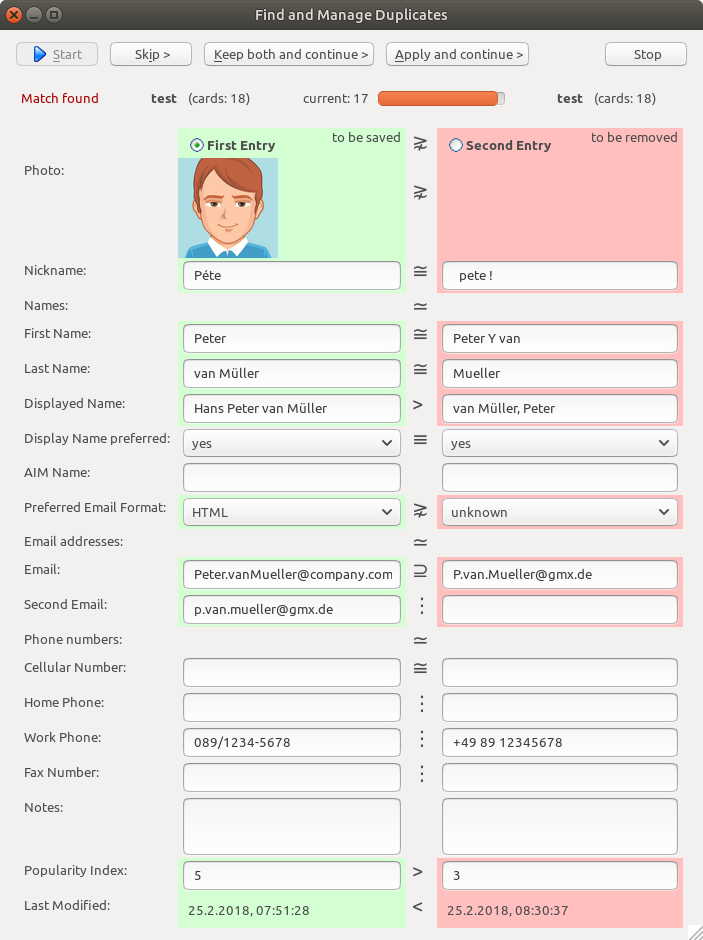
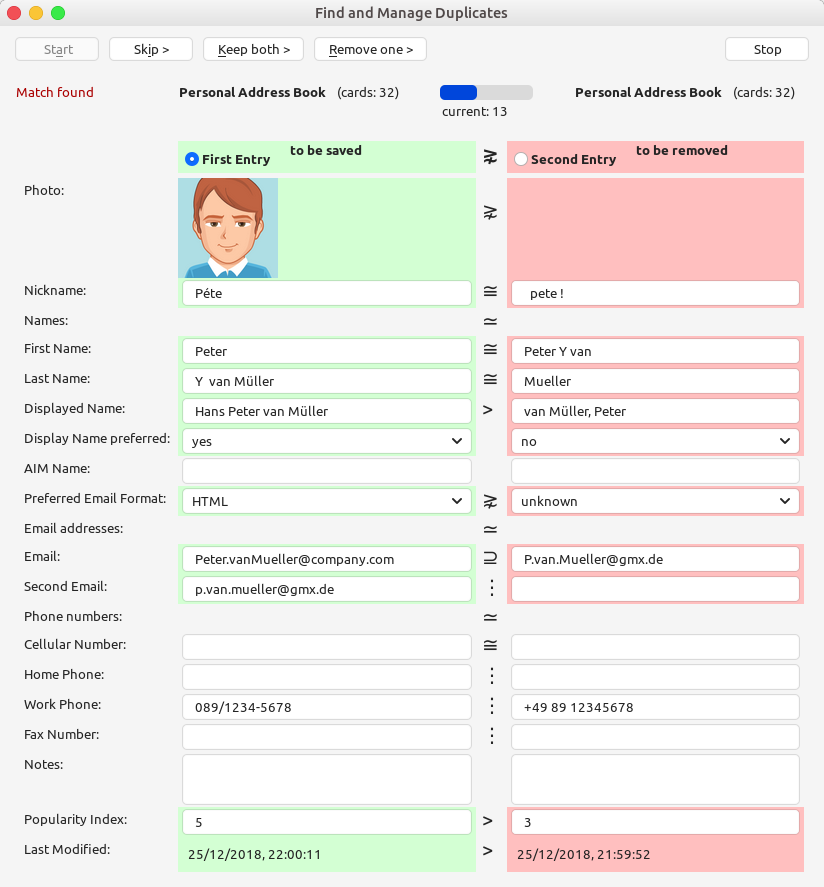
version 1.0.7 (UI horizontal layout and name matching improvements, intl call prefix)

diff --git a/doc/index.html b/doc/index.html
@@ -195,9 +195,9 @@ The card on the right will be preferred for deletion because it contains less in
   <tr>
 <td><code>NickName</code>:           <td>"Péte"                            <td>"&nbsp;&nbsp;pete&nbsp;!&nbsp;" <td> accent, punctuation, letter case, and whitespace ignored
 <tr>
-<td><code>FirstName</code>:          <td>"Peter"                           <td>"Peter Y van"            <td> name prefix "van" moved to last name, middle initial "Y" ignored
+<td><code>FirstName</code>:          <td>"Peter"                           <td>"Peter Y van"            <td> name prefix "van" moved to last name
 <tr>
-<td><code>LastName</code>:           <td>"Y  van Müller"                   <td>"Mueller"                <td> name prefix "van" moved to last name, umlauts transcribed
+<td><code>LastName</code>:           <td>"Y  van Müller"                   <td>"Mueller"                <td> middle initial "Y" moved to first name, umlauts transcribed
 <tr>
 <td><code>DisplayName</code>:        <td>"Hans Peter van Müller"           <td>"van Müller, Peter"      <td> first name moved to the front, name is substring
 <tr>
@@ -299,7 +299,7 @@ The change log is:
 <a href="http://validator.w3.org/check?uri=referer"><IMG src="../pic/html5.png" alt="[Valid HTML5]" height="12" width="33"></a>
 URL: <span class="URL">http://ddvo.net/DuplicateContactsManager/index.html</span>,&nbsp;
 <!-- Created: Sat Apr  7 17:33:21 CEST 2012 -->
-<!-- hhmts start -->Last modified: Tue Dec 25 21:05:27 CET 2018 <!-- hhmts end -->
+<!-- hhmts start -->Last modified: Wed Dec 26 00:01:53 CET 2018 <!-- hhmts end -->
 </ADDRESS>
 
 </BODY>

diff --git a/doc/index-simple.html b/doc/index-simple.html
@@ -146,9 +146,9 @@ The card on the right will be preferred for deletion because it contains less in
   <li>
 	<code>NickName</code>:		...........	"Péte"	..............................	"&nbsp;&nbsp;pete&nbsp;!&nbsp;"	....................	accent, punctuation, letter case, and whitespace ignored
 <li>
-	<code>FirstName</code>:		..........	"Peter"	.............................	"Peter Y van"	............	name prefix "van" moved to last name, middle initial "Y" ignored
+        <code>FirstName</code>:		..........	"Peter"	.............................	"Peter Y van"	............	name prefix "van" moved to last name
 <li>
-	<code>LastName</code>:		...........	"Y  van Müller"	..............	"Mueller"	....................	name prefix "van" moved to last name, umlauts transcribed
+	<code>LastName</code>:		...........	"Y  van Müller"	..............	"Mueller"	....................	middle initial "Y" moved to first name, umlauts transcribed
 <li>
 	<code>DisplayName</code>:	....	"Hans Peter van Müller"  ..	"van Müller, Peter"	..	first name moved to the front, name is substring
 <li>
@@ -175,5 +175,5 @@ Technical information: The options/configuration/preferences used by this Thunde
 
 <hr>
 <address></address>
-<!-- hhmts start -->Last modified: Tue Dec 25 21:05:13 CET 2018 <!-- hhmts end -->
+<!-- hhmts start -->Last modified: Wed Dec 26 00:00:46 CET 2018 <!-- hhmts end -->
 </body> </html>
